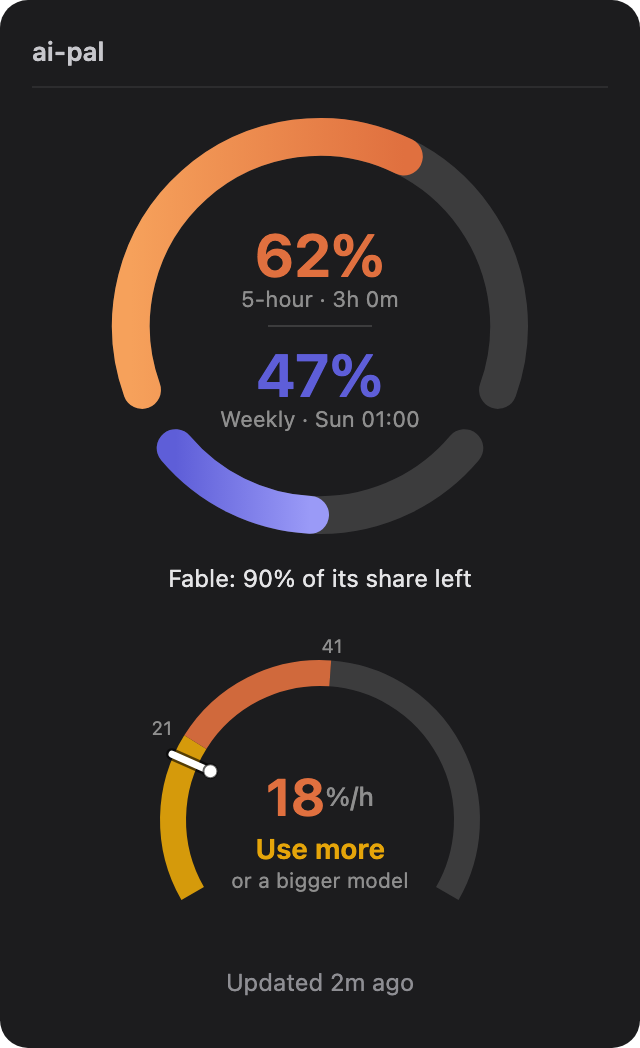
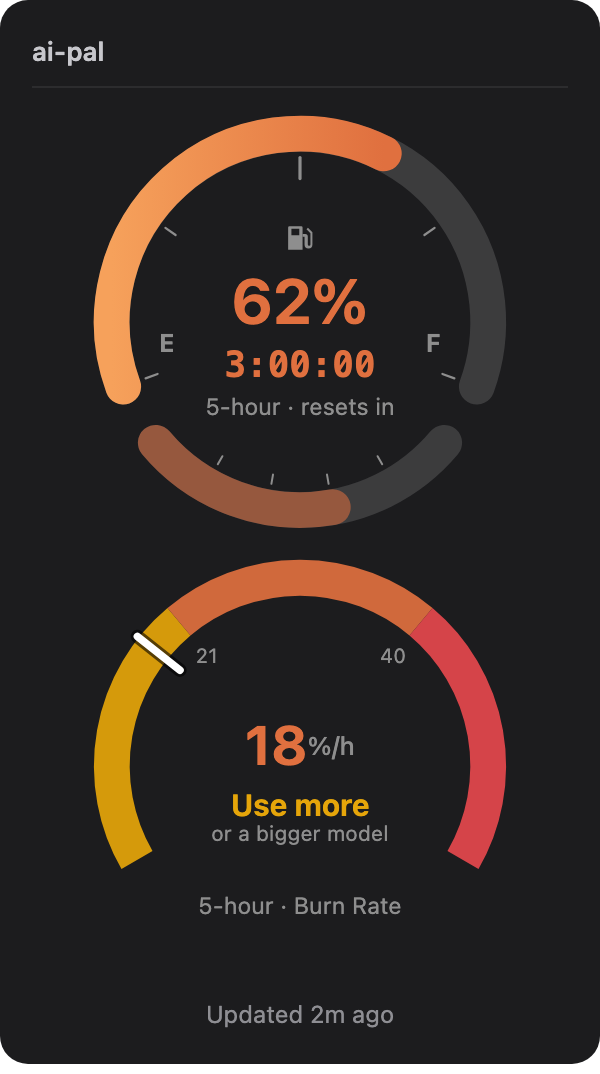
ai-pal page: the 1.1.0 dials

diff --git a/projects/ai-pal/index.html b/projects/ai-pal/index.html
@@ -102,7 +102,7 @@ footer { font-family: var(--font-mono); font-size: 12px; color: var(--muted); }
   </header>
 
   <div class="hero">
-    <img src="pane.png" width="320" height="524" alt="The ai-pal Pane: a split ring with 62% of the 5-hour window and 47% of the weekly window left, a row for the Fable model, and a speedometer reading 18%/h, Use more">
+    <img src="pane.png" width="300" height="537" alt="The top of the ai-pal Pane: a fuel gauge with 62% of the 5-hour window left and its clock at 3:00:00, over the 5-hour speedometer at 18%/h, Use more">
     <ul>
       <li><b>Where you stand</b>: the share of each usage window left and the time to its reset, always beside your session.</li>
       <li><b>Whether your pace fits</b>: Use more, On track or Ease off, from how fast you actually spend while you work.</li>
@@ -120,7 +120,7 @@ footer { font-family: var(--font-mono); font-size: 12px; color: var(--muted); }
   <section id="what">
     <h2>What it does</h2>
     <div>
-      <p>A pane docked beside each Claude Code session holds a split ring. The 5-hour window gets the larger arc because it moves fastest. Under it, a speedometer shows the 5-hour burn rate: percent of the window spent per hour you actually spend working with Claude.</p>
+      <p>A pane docked beside each Claude Code session holds car-style dials, a fuel gauge and a speedometer for each usage window. The fuel gauge shows how much of the window is left, from E to F, with a clock counting down to its reset. The speedometer shows the burn rate: percent of the window spent per hour you actually spend working with Claude, in three equal zones for use more, on track and ease off. A setting swaps them for needle dials.</p>
       <p>A band above the prompt keeps the same figures where you type: each window's allowance left, over a speed bar with the rate and the call.</p>
       <figure>
         <img class="wide" src="band.png" width="908" height="92" alt="The band above the prompt: 5-hour 62%, 3h 0m, 18%/h, Use more; Weekly 47%, Sun 01:00, 12%/day, On track">
@@ -138,7 +138,7 @@ footer { font-family: var(--font-mono); font-size: 12px; color: var(--muted); }
       <p>TypeScript and TSX on Claude Code's mod API (function hooks), with no other dependencies.</p>
       <p>Usage comes from the session's own figures and from the plan's usage endpoint on api.anthropic.com, polled every 5 minutes with back-off.</p>
       <p>A shared store keeps one log for every open session. Nudges are native notifications, scheduled through the desktop app.</p>
-      <p>The ring, speedometer and band are SVG generated in code on the desktop and plain text in the terminal.</p>
+      <p>The dials and the band are SVG generated in code on the desktop, and plain text in the terminal.</p>
       <p>Built test-first: 70 tests on Claude Code's plugin test kit, run against both surfaces.</p>
       <ul class="tags" aria-label="Tech">
         <li>TypeScript</li><li>TSX</li><li>Claude Code mods</li><li>SVG</li><li>REST + OAuth</li><li>TDD</li>
